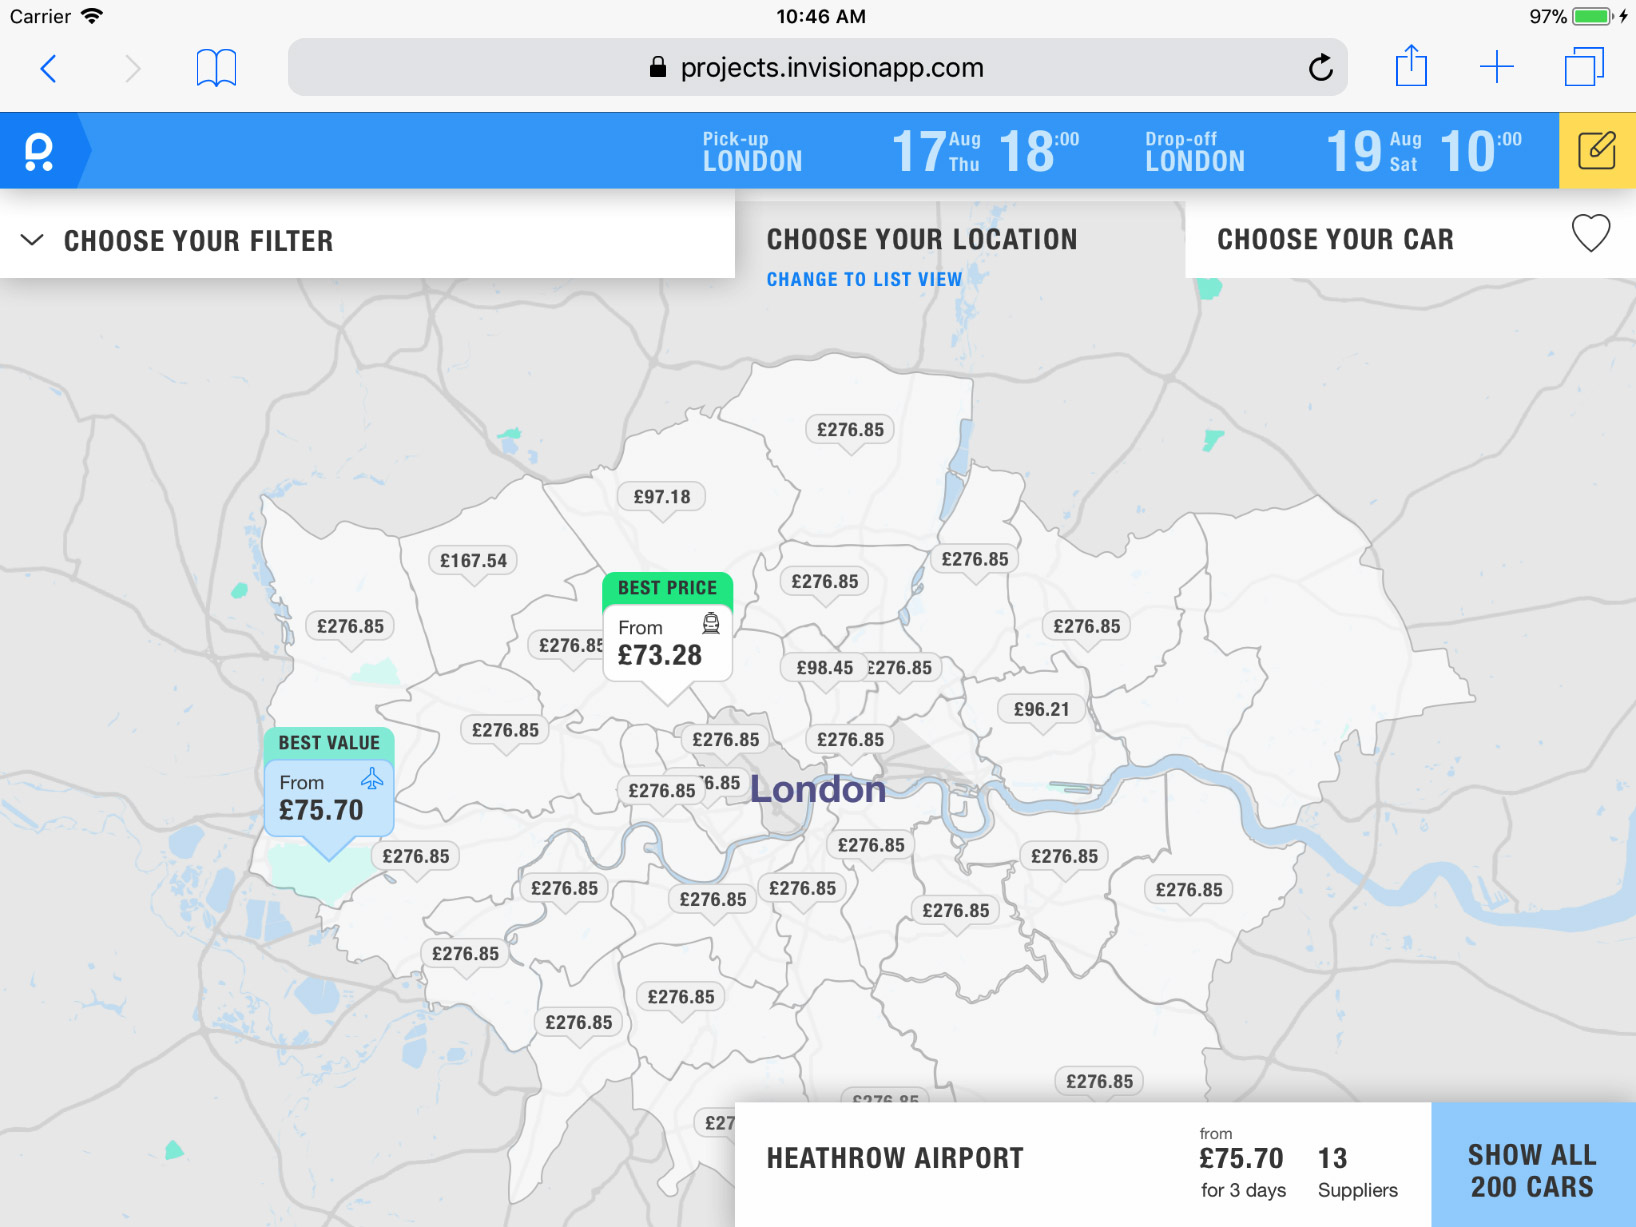
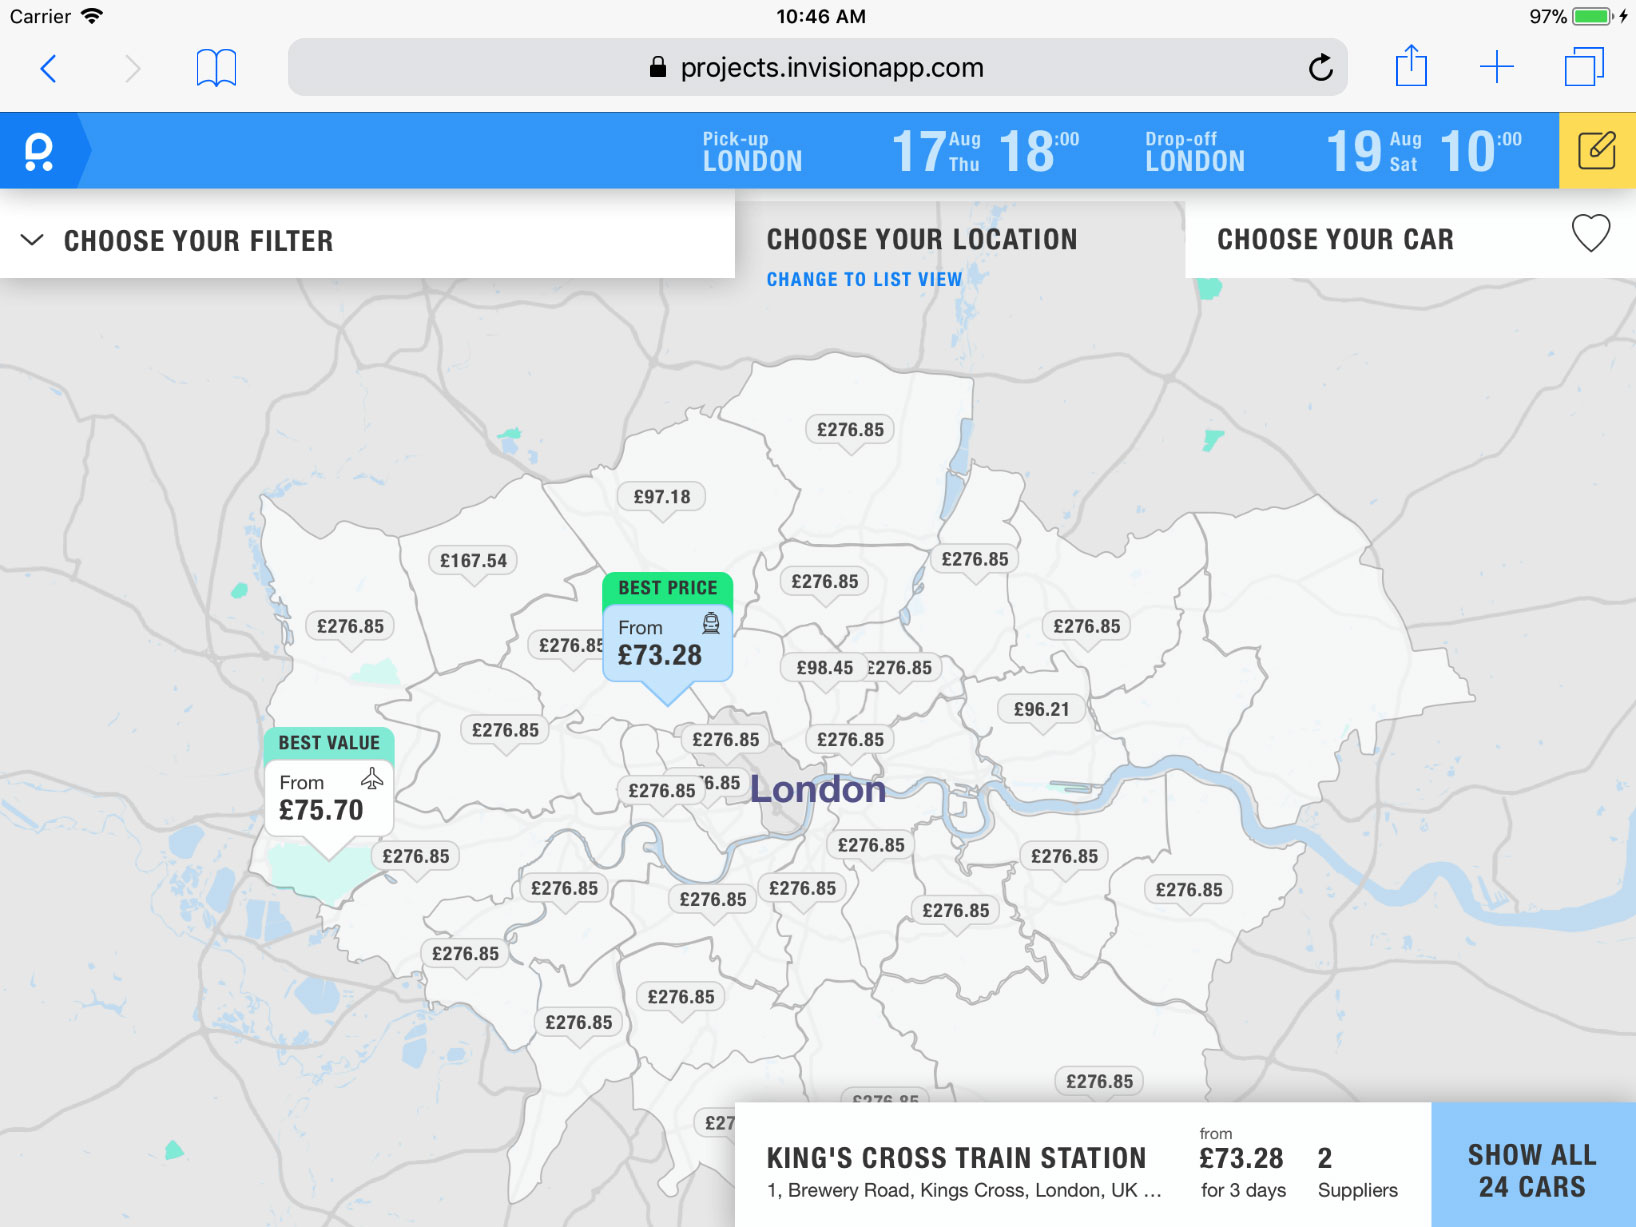
Fügt weitere Inhalte hinzu.

diff --git a/html/project--maps.html b/html/project--maps.html
@@ -501,7 +501,7 @@
 								<div class="device__body device__border--apple-green">
 										<div class="device__display">
 											<div class="device__image d-flex align-items-center">
-												<img src="assets/img/bistro-app/02-landingpage-1600x1200px.jpg" alt="image-example-complexity">
+												<img src="assets/img/map/03-filter_open.jpg" alt="image-example-complexity">
 											</div>
 										</div>
 
@@ -516,7 +516,9 @@
 							<div class="text__wrapper text--light">
 								<h2 class="text--uppercase text--grey">The Design<small class="ml-3">2/7</small></h2>
 								<ul class="list--unordered">
-									<li><span>Guide how to install and use the Bistro App</span></li>
+									<li><span>
+										Users gave feedback in surveys that they have difficulties to understand the splitted filter. This Sketch prototype shows that the car filter and the other filters can easily be combined.
+									</span></li>
 								</ul>
 
 								<div class="toolbar">
@@ -576,7 +578,7 @@
 								<div class="device__body device__border--apple-green">
 										<div class="device__display">
 											<div class="device__image d-flex align-items-center">
-												<img src="assets/img/bistro-app/03-landingpage-1600x1200px.jpg" alt="image-example-complexity">
+												<img src="assets/img/map/04-select_an_airport.jpg" alt="image-example-complexity">
 											</div>
 										</div>
 
@@ -591,7 +593,9 @@
 							<div class="text__wrapper text--light">
 								<h2 class="text--uppercase text--grey">The Design<small class="ml-3">3/7</small></h2>
 								<ul class="list--unordered">
-									<li><span>Desktop version of the weekly menu list</span></li>
+									<li><span>
+										This screen shows that the design offers the opportunities to tie map pins together with special announcements like "Best Price".
+									</span></li>
 								</ul>
 
 								<div class="toolbar">
@@ -651,7 +655,7 @@
 								<div class="device__body device__border--apple-green">
 										<div class="device__display">
 											<div class="device__image d-flex align-items-center">
-												<img src="assets/img/bistro-app/03-landingpage-1024x768px.jpg" alt="image-example-complexity">
+												<img src="assets/img/map/05-select_best_price_train_station.jpg" alt="image-example-complexity">
 											</div>
 										</div>
 
@@ -666,7 +670,9 @@
 							<div class="text__wrapper text--light">
 								<h2 class="text--uppercase text--grey">The Design<small class="ml-3">4/7</small></h2>
 								<ul class="list--unordered">
-									<li><span>iPad version of the weekly menu list</span></li>
+									<li><span>
+										This approach would also allow to show different kinds of locations like airports or train stations.
+									</span></li>
 								</ul>
 
 								<div class="toolbar">
@@ -726,7 +732,7 @@
 								<div class="device__body device__body--portrait device__border--apple-green">
 										<div class="device__display">
 											<div class="device__image d-flex align-items-center">
-												<img src="assets/img/bistro-app/03-landingpage-360x640px.jpg" alt="image-example-complexity">
+												<img src="assets/img/map/06-select_a_complete_region.jpg" alt="image-example-complexity">
 											</div>
 										</div>
 
@@ -741,7 +747,7 @@
 							<div class="text__wrapper text--light">
 								<h2 class="text--uppercase text--grey">The Design<small class="ml-3">5/7</small></h2>
 								<ul class="list--unordered">
-									<li><span>Smartphone version of the weekly menu list</span></li>
+									<li><span>Completely new would be the easy selection by region.</span></li>
 								</ul>
 
 								<div class="toolbar">
@@ -801,7 +807,7 @@
 								<div class="device__body device__border--apple-green">
 										<div class="device__display">
 											<div class="device__image d-flex align-items-center">
-												<img src="assets/img/bistro-app/vote-1024x768px-03.jpg" alt="image-example-complexity">
+												<img src="assets/img/map/07-car_list.jpg" alt="image-example-complexity">
 											</div>
 										</div>
 
@@ -817,8 +823,6 @@
 								<h2 class="text--uppercase text--grey">The Design<small class="ml-3">6/7</small></h2>
 								<ul class="list--unordered">
 									<li><span>Presentation board for the daily favourites</span></li>
-									<li><span>A Full HD version was presented the whole day on the big display in the canteen</span></li>
-									<li><span>A version of this board was available for all devices from mobile to desktop</span></li>
 								</ul>
 
 								<div class="toolbar">
